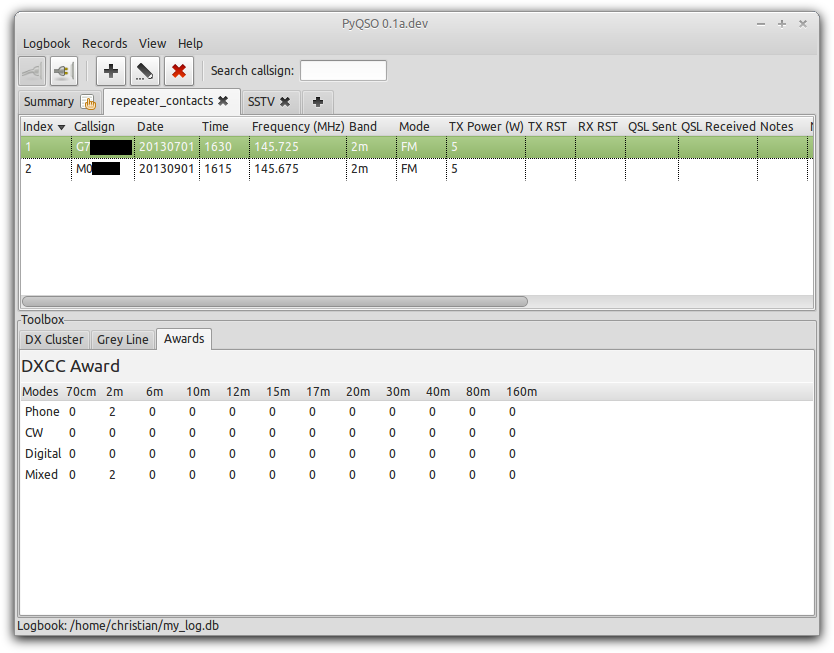
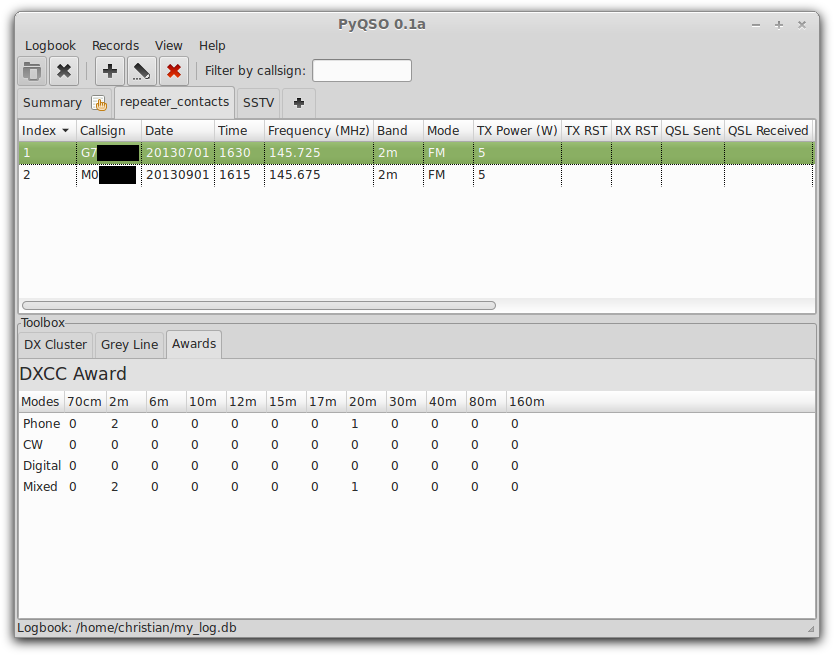
Updated images for the documentation.

diff --git a/doc/manual.tex b/doc/manual.tex
@@ -61,13 +61,13 @@ The source code for PyQSO is available for download at: \texttt{www.launchpad.ne
 \section{Data storage model}
 Many amateur radio operators choose to store all the contacts they ever make in a single \textit{logbook}, whereas others keep a separate logbook for each year, for example. Each logbook may be divided up to form multiple distinct \textit{logs}, perhaps one for casual repeater contacts and another for DX'ing. Finally, each log can contain multiple \textit{records}. PyQSO is based around this three-tier model for data storage, going from logbooks at the top to individual records at the bottom. 
 
-Rather than storing each log in a separate file, a single database can hold several logs together; in PyQSO, a database is therefore analogous to a logbook. Within a database the user can create multiple tables which are analogous to the logs. Within each table users can create/modify/delete the records which are analogous to the records in each log.
+Rather than storing each log in a separate file, a single database can hold several logs together; in PyQSO, a database is therefore analogous to a logbook. Within a database the user can create multiple tables which are analogous to the logs. Within each table the user can create/modify/delete records which are analogous to the records in each log.
 
 \section{Licensing}
 PyQSO is free software, released under the GNU General Public License. Please see the file called COPYING for more information.
 
 \section{Structure of this manual}
-The structure of this manual is as follows. Chapter \ref{chap:getting_started} is concerned with the installation, running, and overall layout of PyQSO. It also describes how to create a  new logbook and open an existing one. Chapter \ref{chap:log_management} explains how to create a log in the logbook, as well as the basic operations that users can perform with existing logs, such as printing, importing from/exporting to ADIF format, and sorting. Chapter \ref{chap:record_management} deals with the bottom layer of the three-tier model -- the creation, deletion, and modification of QSO records in a log. Chapter \ref{chap:toolbox} introduces the PyQSO toolbox which contains three tools that are useful to amateur radio operators: a DX cluster, grey line plotter, and an awards progress tracker. Finally, Chapter \ref{chap:preferences} explains how users can set up Hamlib support and show/hide various fields in a log, along with several other user preferences that can be set via the Preferences dialog window.
+The structure of this manual is as follows. Chapter \ref{chap:getting_started} is all about getting started with PyQSO -- from the installation process through to creating a new logbook (or opening an existing one). Chapter \ref{chap:log_management} explains how to create a log in the logbook, as well as the basic operations that users can perform with existing logs, such as printing, importing from/exporting to ADIF format, and sorting. Chapter \ref{chap:record_management} deals with the bottom layer of the three-tier model -- the creation, deletion, and modification of QSO records in a log. Chapter \ref{chap:toolbox} introduces the PyQSO toolbox which contains three tools that are useful to amateur radio operators: a DX cluster, a grey line plotter, and an awards progress tracker. Finally, Chapter \ref{chap:preferences} explains how users can set up Hamlib support and show/hide various fields in a log, along with several other user preferences that can be set via the Preferences dialog window.
 
 \chapter{Getting started}\label{chap:getting_started}
 
@@ -119,7 +119,7 @@ Once the database connection has been established, the database file name will a
 \begin{figure}
   \centering
   \includegraphics[width=1\columnwidth]{images/log_with_awards.png}
-  \caption{PyQSO main window, showing the records in a log called \texttt{repeater\_contacts}, and the awards tool in the toolbox below it.}
+  \caption{The PyQSO main window, showing the records in a log called \texttt{repeater\_contacts}, and the awards tool in the toolbox below it.}
   \label{fig:log_view_with_awards}
 \end{figure}
 
@@ -204,6 +204,7 @@ An existing record can be deleted by:
 PyQSO can find and delete duplicate records in a log. A record is a duplicate of another if its data in the Callsign, Date, Time, Frequency, and Mode fields are the same. Click \texttt{Remove Duplicate Records} in the \texttt{Records} menu.
 
 \chapter{Toolbox}\label{chap:toolbox}
+The toolbox is hidden by default. To show it, click \texttt{Toolbox} in the \texttt{View} menu.
 
 \section{DX cluster}
 A DX cluster is essentially a server through which amateur radio operators can report and receive updates about QSOs that are in progress across the bands. PyQSO is able to connect to a DX cluster that operates using the Telnet protocol to provide a text-based alert service. As a result of the many different Telnet-based software products that DX clusters run, PyQSO currently outputs the raw data received from the DX cluster rather than trying to parse it in some way.
@@ -232,7 +233,14 @@ The grey line tool (see Figure \ref{fig:grey_line}) can be used to check which p
 \end{figure}
 
 \section{Awards}
-The awards data is updated each time a record is added, deleted, or modified. Currently only the DXCC award is supported.
+The awards data is updated each time a record is added, deleted, or modified. Currently only the DXCC award is supported (see Figure \ref{fig:awards})
+
+\begin{figure}
+  \centering
+  \includegraphics[width=1\columnwidth]{images/awards.png}
+  \caption{The award progress tracker.}
+  \label{fig:awards}
+\end{figure}
 
 \chapter{Preferences}\label{chap:preferences}
 PyQSO user preferences are stored in a configuration file located at \texttt{\textasciitilde/.pyqso.ini}, where \texttt{\textasciitilde} denotes the user's home directory.
